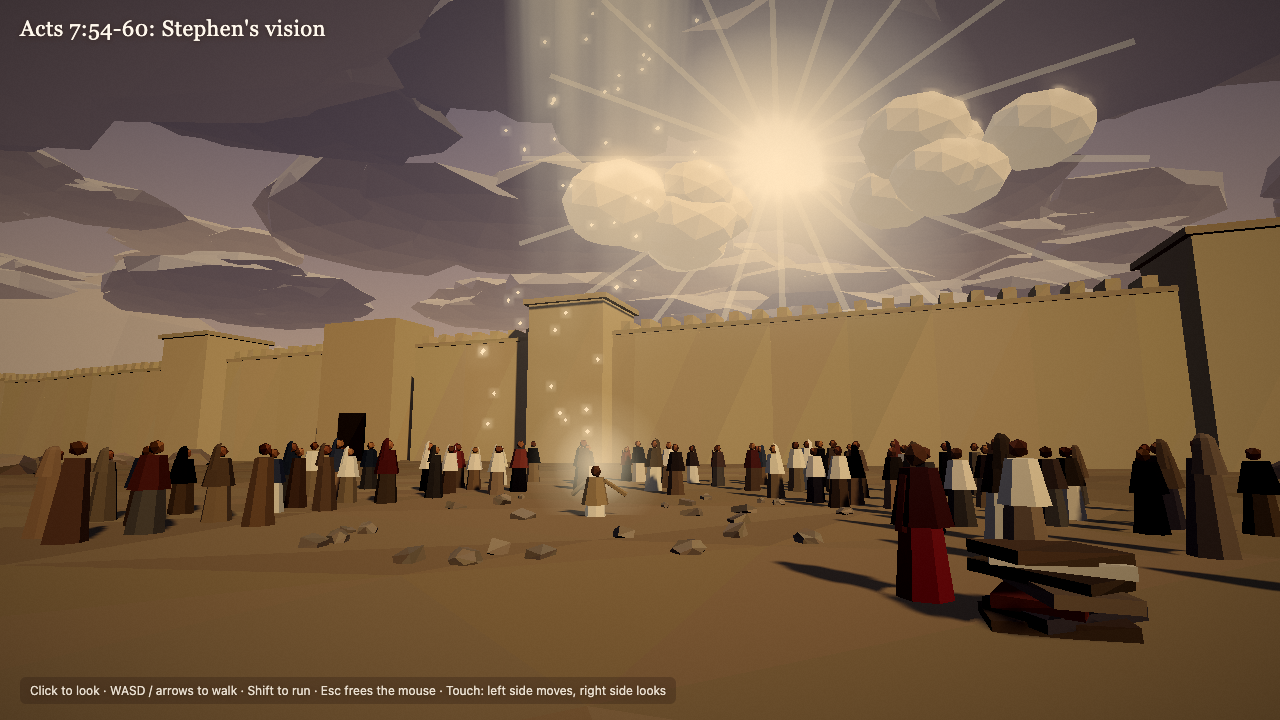
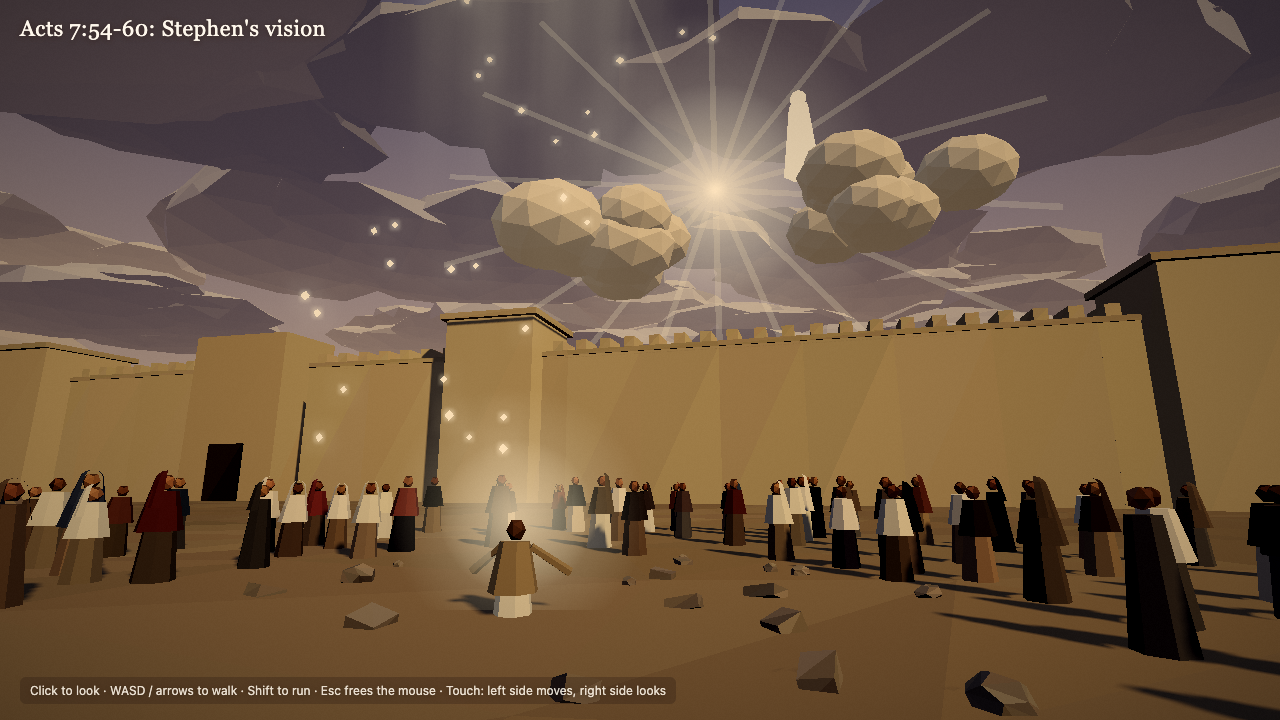
feat: polish lowpoly scenes nt-25 to nt-31

diff --git a/styles/lowpoly/scenes/nt-30.js b/styles/lowpoly/scenes/nt-30.js
@@ -20,11 +20,11 @@ export default {
   fog: { color: '#b49c8a', near: 70, far: 520 },
   clouds: { count: 110, shadow: '#4a4656', lit: '#e8d0b0', rim: '#fff4d8', distance: [160, 800], altitude: [70, 200], hole: 0.22 },
   mountains: { count: 40, color: '#5e5a5a', radius: [480, 720], height: [40, 110], haze: 0.55 },
-  bloom: { strength: 0.7, radius: 0.6, threshold: 0.78 },
+  bloom: { strength: 0.5, radius: 0.5, threshold: 0.82 },
   grade: { saturation: 1.0, contrast: 1.08, vignette: 0.45, shadowTint: '#2a2850', highlightTint: '#ffe8c0' },
   shadow: { center: [0, -6], radius: 40 },
 
-  player: { start: [6, 5], yaw: 0.36, pitch: 0.14, eye: 1.65, speed: 4.5 },
+  player: { start: [3.5, -0.5], yaw: 0.24, pitch: 0.2, eye: 1.65, speed: 4.5 },
 
   terrain: {
     size: 1000,
@@ -68,8 +68,8 @@ export default {
     { type: 'beam', at: STEPHEN, height: 320, radiusBottom: 1.8, radiusTop: 22, color: '#fff2d0', opacity: 0.55 },
     { type: 'halo', position: [STEPHEN[0], 1.2, STEPHEN[1]], size: 3.4, opacity: 0.45, color: '#fff2d0' },
     { type: 'motes', at: STEPHEN, radius: 3, height: 30, count: 120 },
-    { type: 'halo', position: VISION, size: 90, opacity: 0.85, color: '#fff2d6' },
-    { type: 'halo', position: VISION, size: 30, opacity: 0.45, color: '#ffffff' },
+    { type: 'halo', position: VISION, size: 70, opacity: 0.4, color: '#fff2d6' },
+    { type: 'halo', position: VISION, size: 22, opacity: 0.3, color: '#ffffff' },
   ],
 
   custom(ctx) {
@@ -79,24 +79,24 @@ export default {
     ctx.colliders.add({ x: STEPHEN[0], z: STEPHEN[1], w: 0.8, d: 0.8, bottom: sy - 1, top: sy + 1.5 });
 
     const vg = new THREE.Group();
-    const mat = new THREE.MeshBasicMaterial({ color: '#fffaf0', toneMapped: false, fog: false });
+    const mat = new THREE.MeshBasicMaterial({ color: '#efe6d2', fog: false });
     const robe = new THREE.Mesh(new THREE.CylinderGeometry(0.6, 1.1, 4.4, 7), mat);
     robe.position.y = 2.2;
-    const head = new THREE.Mesh(new THREE.IcosahedronGeometry(0.45, 0), mat);
-    head.position.y = 4.9;
+    const head = new THREE.Mesh(new THREE.IcosahedronGeometry(0.55, 0), mat);
+    head.position.y = 4.95;
     vg.add(robe, head);
-    vg.position.set(VISION[0] + 7, VISION[1] - 7, VISION[2] + 2);
-    vg.scale.setScalar(1.6);
+    vg.position.set(VISION[0] + 16, VISION[1] - 6, VISION[2] + 14);
+    vg.scale.setScalar(2.8);
     ctx.scene.add(vg);
     for (let i = 0; i < 18; i++) {
       const a = (i / 18) * Math.PI * 2;
-      const r = new THREE.Mesh(new THREE.PlaneGeometry(1.2, 60).translate(0, 30, 0), new THREE.MeshBasicMaterial({ color: '#fff0c8', transparent: true, opacity: 0.12, blending: THREE.AdditiveBlending, depthWrite: false, fog: false, side: THREE.DoubleSide }));
+      const r = new THREE.Mesh(new THREE.PlaneGeometry(1.2, 60).translate(0, 30, 0), new THREE.MeshBasicMaterial({ color: '#fff0c8', transparent: true, opacity: 0.07, blending: THREE.AdditiveBlending, depthWrite: false, fog: false, side: THREE.DoubleSide }));
       r.position.set(...VISION);
       r.rotation.z = a;
       ctx.scene.add(r);
     }
-    brightCloud(ctx, { x: VISION[0] - 22, y: VISION[1] - 12, z: VISION[2] + 10, size: 18, count: 8, seed: 3, glow: 0.35, color: '#f2e2c8' });
-    brightCloud(ctx, { x: VISION[0] + 30, y: VISION[1] - 10, z: VISION[2] + 6, size: 16, count: 8, seed: 4, glow: 0.35, color: '#f2e2c8' });
+    brightCloud(ctx, { x: VISION[0] - 22, y: VISION[1] - 12, z: VISION[2] + 10, size: 18, count: 8, seed: 3, glow: 0.16, color: '#d6c4a8' });
+    brightCloud(ctx, { x: VISION[0] + 30, y: VISION[1] - 10, z: VISION[2] + 6, size: 16, count: 8, seed: 4, glow: 0.16, color: '#d6c4a8' });
 
     const coatColors = ['#5a4a3a', '#3e3a40', '#6d3b2e', '#7a6a58', '#4a3e30', '#d8cdb5'];
     const cy = ctx.heightAt(SAUL[0] + 1, SAUL[1] + 0.8);

diff --git a/styles/lowpoly/scenes/nt-31.js b/styles/lowpoly/scenes/nt-31.js
@@ -2,7 +2,7 @@
 // still beside a pool, and he and Philip go down into the water for baptism.
 import { water, road, chariot, horse, person } from './lib/nt-25-kit.js';
 
-const POOL = [-6, -9];
+const POOL = [-4.2, -8.6];
 const CHARIOT = [5, -4];
 const ROAD = [[16, 140], [10, 80], [6, 30], [5, 6], [5, -10], [2, -40], [-10, -100], [-30, -180]];
 
@@ -22,7 +22,7 @@ export default {
   grade: { saturation: 1.1, contrast: 1.06, vignette: 0.35, shadowTint: '#3a3060', highlightTint: '#fff0d0' },
   shadow: { center: [0, -6], radius: 36 },
 
-  player: { start: [6.5, 4.5], yaw: 0.62, pitch: -0.07, eye: 1.65, speed: 4.5 },
+  player: { start: [-0.8, 0.2], yaw: -0.08, pitch: -0.07, eye: 1.65, speed: 4.5 },
 
   terrain: {
     size: 1100,
@@ -44,8 +44,8 @@ export default {
   objects: [],
 
   scatter: [
-    { type: 'tree', count: 7, center: POOL, ring: [8, 14], spacing: 3.5, seed: 21, avoid: [{ rect: [8, 4, 10, 30] }], props: { kind: 'palm', leaf: '#5e7a34', h: 7 } },
-    { type: 'tree', count: 3, center: POOL, ring: [9, 13], spacing: 4, seed: 22, avoid: [{ rect: [8, 4, 10, 30] }], props: { kind: 'broad', leaf: '#6a7c40', h: 4 } },
+    { type: 'tree', count: 7, center: POOL, ring: [8, 14], spacing: 3.5, seed: 21, avoid: [{ rect: [8, 4, 10, 30] }, { rect: [-1.5, -1, 7, 12] }], props: { kind: 'palm', leaf: '#5e7a34', h: 7 } },
+    { type: 'tree', count: 3, center: POOL, ring: [9, 13], spacing: 4, seed: 22, avoid: [{ rect: [8, 4, 10, 30] }, { rect: [-1.5, -1, 7, 12] }], props: { kind: 'broad', leaf: '#6a7c40', h: 4 } },
     { type: 'rock', count: 60, center: [0, 0], ring: [16, 260], spacing: 8, seed: 23, avoid: [{ rect: [8, 60, 16, 140] }], props: { size: 1.3, color: '#a88c6a' } },
     { type: 'rubble', count: 40, center: [0, 0], ring: [12, 120], spacing: 6, seed: 24, avoid: [{ rect: [8, 60, 12, 140] }], props: { radius: 1.4, count: 4, size: [0.2, 0.45], color: '#7f8448' } },
   ],
@@ -72,8 +72,8 @@ export default {
     person(ctx, { x: CHARIOT[0], z: CHARIOT[1] - 0.4, y: cy + 0.87, face: [CHARIOT[0], CHARIOT[1] - 6], robe: '#c8b48c', mantle: '#6a4a2a', skin: '#4a2e1e', hood: true });
 
     const wy = -0.2 - 0.55;
-    person(ctx, { x: POOL[0] + 0.7, z: POOL[1] + 0.4, y: wy, face: [POOL[0] - 0.5, POOL[1]], robe: '#d8ccb0', mantle: '#7a6a50', skin: '#a87652', arms: 'out' });
-    person(ctx, { x: POOL[0] - 0.5, z: POOL[1] + 0.2, y: wy - 0.2, face: [POOL[0] + 0.7, POOL[1] + 0.4], robe: '#f0e6cc', mantle: '#7a2e5a', skin: '#3e281c' });
+    person(ctx, { x: POOL[0] + 0.8, z: POOL[1] - 0.1, y: wy, face: [POOL[0] - 0.3, POOL[1] + 0.5], robe: '#d8ccb0', mantle: '#7a6a50', skin: '#a87652', arms: 'out' });
+    person(ctx, { x: POOL[0] - 0.3, z: POOL[1] + 0.5, y: wy - 0.2, face: [-0.8, 0.2], robe: '#f0e6cc', mantle: '#7a2e5a', skin: '#3e281c' });
     const ring = new ctx.THREE.Mesh(new ctx.THREE.RingGeometry(0.5, 0.75, 20).rotateX(-Math.PI / 2), new ctx.THREE.MeshBasicMaterial({ color: '#dff2f4', transparent: true, opacity: 0.5, depthWrite: false }));
     ring.position.set(POOL[0] + 0.1, -0.12, POOL[1] + 0.3);
     ring.scale.set(2.2, 1, 1.3);

diff --git a/styles/lowpoly/scenes/nt-27.js b/styles/lowpoly/scenes/nt-27.js
@@ -3,7 +3,7 @@
 import { cityWall, temple, town, brightCloud, person } from './lib/nt-25-kit.js';
 
 const CHRIST = [0, -7, 8.5];
-const CITY = [-30, -250];
+const CITY = [-30, -190];
 
 const apostles = Array.from({ length: 11 }, (_, i) => {
   const a = Math.PI * (0.15 + (i / 10) * 0.7);
@@ -12,7 +12,7 @@ const apostles = Array.from({ length: 11 }, (_, i) => {
 });
 
 const cityRing = [
-  [-90, -310], [20, -320], [40, -250], [30, -190], [-50, -180], [-100, -220], [-90, -310],
+  [-90, -250], [20, -260], [40, -190], [30, -130], [-50, -120], [-100, -160], [-90, -250],
 ];
 
 export default {
@@ -31,7 +31,7 @@ export default {
   grade: { saturation: 1.08, contrast: 1.05, vignette: 0.35, shadowTint: '#2a3460', highlightTint: '#fff2d8' },
   shadow: { center: [0, 0], radius: 45 },
 
-  player: { start: [3, 13], yaw: 0.1, pitch: 0.16, eye: 1.65, speed: 4.5 },
+  player: { start: [2.6, 12.5], yaw: 0.07, pitch: 0.1, eye: 1.65, speed: 4.5 },
 
   terrain: {
     size: 1100,
@@ -40,8 +40,9 @@ export default {
     hills: 28,
     bumps: 0.3,
     flats: [
-      { x: 0, z: 5, r: 16, falloff: 42, height: 22 },
-      { x: CITY[0], z: CITY[1], r: 110, falloff: 90, height: -45 },
+      { x: -12, z: -80, r: 20, falloff: 40, height: -6 },
+      { x: 0, z: 3, r: 13, falloff: 36, height: 22 },
+      { x: CITY[0], z: CITY[1], r: 90, falloff: 60, height: 12 },
     ],
     colors: { ground: '#a89670', groundAlt: '#958660', grass: '#7c8448', high: '#9a8e6c', rock: '#857a66' },
     patches: [{ x: 0, z: 0, r: 16, color: '#9a8a64', strength: 0.5, rough: 0.5 }],
@@ -94,9 +95,9 @@ export default {
       ctx.solid.add(new ctx.THREE.DodecahedronGeometry(s, 0), { position: [x, ctx.heightAt(x, z) + s * 0.2, z], rotation: [ctx.rand(), ctx.rand(), 0], scale: [1.3, 0.6, 1], color: '#9a8c74', jitter: 0.1 });
     }
 
-    cityWall(ctx, { points: cityRing, h: 10, thick: 3, color: '#cdb88e', gaps: [{ x: 35, z: -220, r: 6 }] });
-    temple(ctx, { x: 0, z: -235, rot: -Math.PI / 2 + 0.2, s: 0.7 });
-    town(ctx, { center: [-40, -250], radius: 60, count: 70, seed: 27, spacing: 8, size: [5, 9], height: [3, 6], avoid: [{ x: 0, z: -235, r: 50 }] });
-    town(ctx, { center: [-60, -290], radius: 22, count: 12, seed: 28, spacing: 8, size: [5, 9], height: [3, 6] });
+    cityWall(ctx, { points: cityRing, h: 10, thick: 3, color: '#cdb88e', gaps: [{ x: 35, z: -160, r: 6 }] });
+    temple(ctx, { x: 0, z: -175, rot: -Math.PI / 2 + 0.2, s: 0.7 });
+    town(ctx, { center: [-40, -190], radius: 60, count: 70, seed: 27, spacing: 8, size: [5, 9], height: [3, 6], avoid: [{ x: 0, z: -175, r: 50 }] });
+    town(ctx, { center: [-60, -230], radius: 22, count: 12, seed: 28, spacing: 8, size: [5, 9], height: [3, 6] });
   },
 };

diff --git a/styles/lowpoly/scenes/nt-28.js b/styles/lowpoly/scenes/nt-28.js
@@ -5,7 +5,7 @@ import { house, town, tongues, person, frame } from './lib/nt-25-kit.js';
 const HOUSE = [0, -14];
 const wall = '#d4c09a';
 
-const apostles = Array.from({ length: 11 }, (_, i) => [HOUSE[0] - 5.6 + i * 1.12, HOUSE[1] + 1.2 + (i % 2) * 0.7]);
+const apostles = Array.from({ length: 11 }, (_, i) => [HOUSE[0] - 5.6 + i * 1.12, HOUSE[1] + 2.2 + (i % 2) * 0.6]);
 const PETER = [HOUSE[0] + 0.5, HOUSE[1] + 6.2];
 
 function upperRoomHouse(ctx) {
@@ -34,7 +34,7 @@ function upperRoomHouse(ctx) {
   box(0, D / 2 - 0.3, W + 0.2, 0.5, 0.7, fy + H2 - 0.5, '#bba680', false);
   box(0, 0, W + 0.8, 0.35, D + 0.8, fy + H2, '#a8946e', false);
   box(0, 0, W, 0.4, D, fy + H2 + 0.35, wall, false);
-  box(0, D / 2 - 0.05, W - 1, 0.9, 0.15, fy, '#c8b48c', false);
+  box(0, D / 2 - 0.05, W - 1, 0.5, 0.15, fy, '#c8b48c', false);
   for (let i = 0; i < 9; i++) box(W / 2 + 1.1, D / 2 + 0.4 - i * 0.62, 1.8, 0.55 * (i + 1), 0.62, y0, '#c2ae88');
   box(W / 2 + 1.1, -D / 2 + 1.2, 1.8, H1 + 0.3, 2.2, y0, '#c2ae88');
   box(0, D / 2 + 1.6, 6, 1.6, 3.2, y0, '#bfa984');
@@ -78,7 +78,7 @@ export default {
   grade: { saturation: 1.12, contrast: 1.06, vignette: 0.38, shadowTint: '#30305e', highlightTint: '#ffe8c8' },
   shadow: { center: [0, -6], radius: 40 },
 
-  player: { start: [2, 11], yaw: 0.0, pitch: 0.16, eye: 1.65, speed: 4.5 },
+  player: { start: [2, 8], yaw: 0.07, pitch: 0.18, eye: 1.65, speed: 4.5 },
 
   terrain: {
     size: 1000,
@@ -109,7 +109,7 @@ export default {
       hoodChance: 0.35,
     },
     groups: [
-      { count: 230, center: [0, -6], ring: [9.5, 30], arc: [0.15, Math.PI - 0.15], spacing: 0.95, face: [0, -12], children: 0.12, seed: 61, avoid: [{ rect: [2, 13, 5, 8] }, { rect: [0, -6, 8, 8] }, { rect: [8.1, -12, 3, 12] }] },
+      { count: 230, center: [0, -6], ring: [7, 30], arc: [0.15, Math.PI - 0.15], spacing: 0.95, face: [0, -12], children: 0.12, seed: 61, avoid: [{ rect: [2, 12.5, 4, 14] }, { rect: [0, -6, 8, 8] }, { rect: [8.1, -12, 3, 12] }] },
       { count: 24, center: [-16, -6], ring: [1, 8], spacing: 1.1, face: [0, -12], children: 0.1, seed: 62 },
     ],
   },

diff --git a/styles/lowpoly/scenes/nt-25.js b/styles/lowpoly/scenes/nt-25.js
@@ -47,7 +47,7 @@ export default {
   grade: { saturation: 1.1, contrast: 1.06, vignette: 0.45, shadowTint: '#2a2050', highlightTint: '#ffd0a0' },
   shadow: { center: [0, -6], radius: 50 },
 
-  player: { start: [2.6, 4.5], yaw: 0.1, pitch: -0.04, eye: 1.65, speed: 4 },
+  player: { start: [0.7, -1.4], yaw: 0.07, pitch: -0.12, eye: 1.65, speed: 4 },
 
   terrain: {
     size: 1000,
@@ -106,7 +106,7 @@ export default {
     lamp(ctx, { x: ROOM[0] + 3.2, y: y + 1.68, z: ROOM[1] - 2.25, intensity: 4, range: 7 });
 
     person(ctx, {
-      x: ROOM[0], z: ROOM[1] - 1.45, y: y - 0.45, face: [ROOM[0], ROOM[1] + 10], robe: '#fbf7ee', mantle: '#f1e9d8', skin: '#a8754f', arms: 'out', emissive: 0.22,
+      x: ROOM[0], z: ROOM[1] - 1.45, y: y - 0.28, face: [ROOM[0], ROOM[1] + 10], robe: '#fbf7ee', mantle: '#f1e9d8', skin: '#a8754f', arms: 'out', emissive: 0.22,
       light: { color: '#fff0cf', intensity: 3, distance: 6 }, halo: { size: 2.2, opacity: 0.22, color: '#fff3d6' },
     });
     person(ctx, { x: ROOM[0] - 1.75, z: ROOM[1] - 0.4, y: y - 0.45, face: [ROOM[0], ROOM[1] - 1.2], robe: '#7a5a3c', mantle: '#4f5a6b', skin: '#9b6a46' });

diff --git a/styles/lowpoly/scenes/nt-26.js b/styles/lowpoly/scenes/nt-26.js
@@ -25,7 +25,7 @@ export default {
   grade: { saturation: 1.1, contrast: 1.05, vignette: 0.4, shadowTint: '#2e2a5e', highlightTint: '#ffe0c0' },
   shadow: { center: [0, 4], radius: 40 },
 
-  player: { start: [5.5, 16], yaw: 0.36, pitch: -0.06, eye: 1.65, speed: 4 },
+  player: { start: [-0.8, 15], yaw: -0.08, pitch: -0.1, eye: 1.65, speed: 4 },
 
   terrain: {
     size: 1000,
@@ -67,9 +67,9 @@ export default {
 
   figures: [
     {
-      x: CHRIST[0], z: CHRIST[1], face: [3, 2], scale: 1.08, robe: '#fbf7ee', mantle: '#f3ecdc', skin: '#a8754f', arms: 'out', emissive: 0.28,
-      light: { color: '#fff0cf', intensity: 10, distance: 12 },
-      halo: { size: 3.2, opacity: 0.35, color: '#fff3d6' },
+      x: CHRIST[0], z: CHRIST[1], face: [3, 2], scale: 1.08, robe: '#fbf7ee', mantle: '#f3ecdc', skin: '#a8754f', arms: 'out', emissive: 0.16,
+      light: { color: '#fff0cf', intensity: 5, distance: 10 },
+      halo: { size: 2.6, opacity: 0.16, color: '#fff3d6' },
     },
   ],
 

diff --git a/styles/lowpoly/scenes/nt-29.js b/styles/lowpoly/scenes/nt-29.js
@@ -3,8 +3,8 @@
 import { temple, person } from './lib/nt-25-kit.js';
 
 const GATE_Z = -20;
-const PETER = [-2.2, -6.6];
-const JOHN = [-3.4, -7.6];
+const PETER = [-0.85, -6.3];
+const JOHN = [-2.4, -7.3];
 const HEALED = [0.3, -6.4];
 
 const stoneC = '#dccaa4';
@@ -66,7 +66,7 @@ export default {
   grade: { saturation: 1.1, contrast: 1.06, vignette: 0.38, shadowTint: '#30305e', highlightTint: '#ffe6c0' },
   shadow: { center: [0, -12], radius: 40 },
 
-  player: { start: [3.4, 5], yaw: 0.2, pitch: 0.1, eye: 1.65, speed: 4.5 },
+  player: { start: [3, 2.2], yaw: 0.34, pitch: 0.1, eye: 1.65, speed: 4.5 },
 
   terrain: {
     size: 1000,
